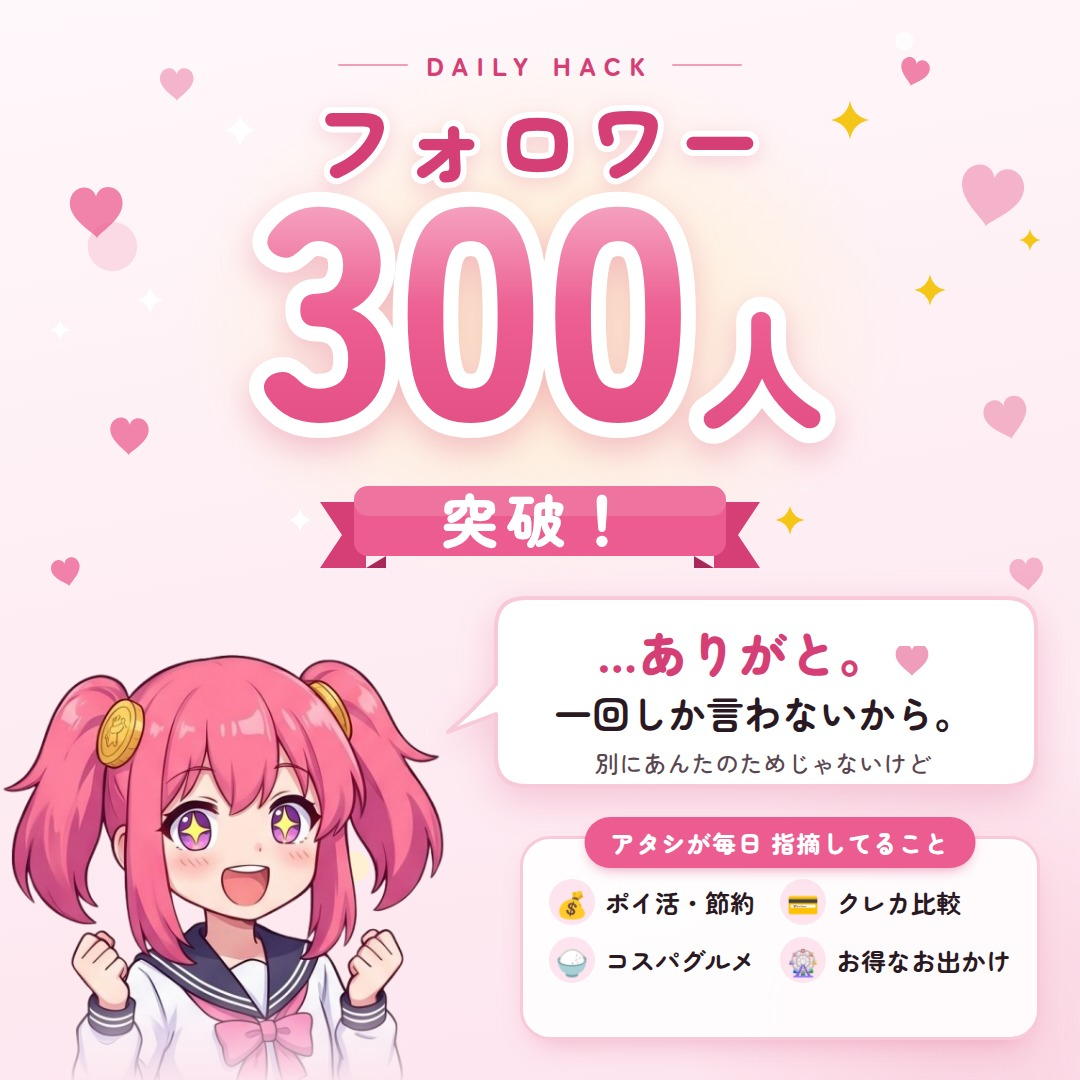
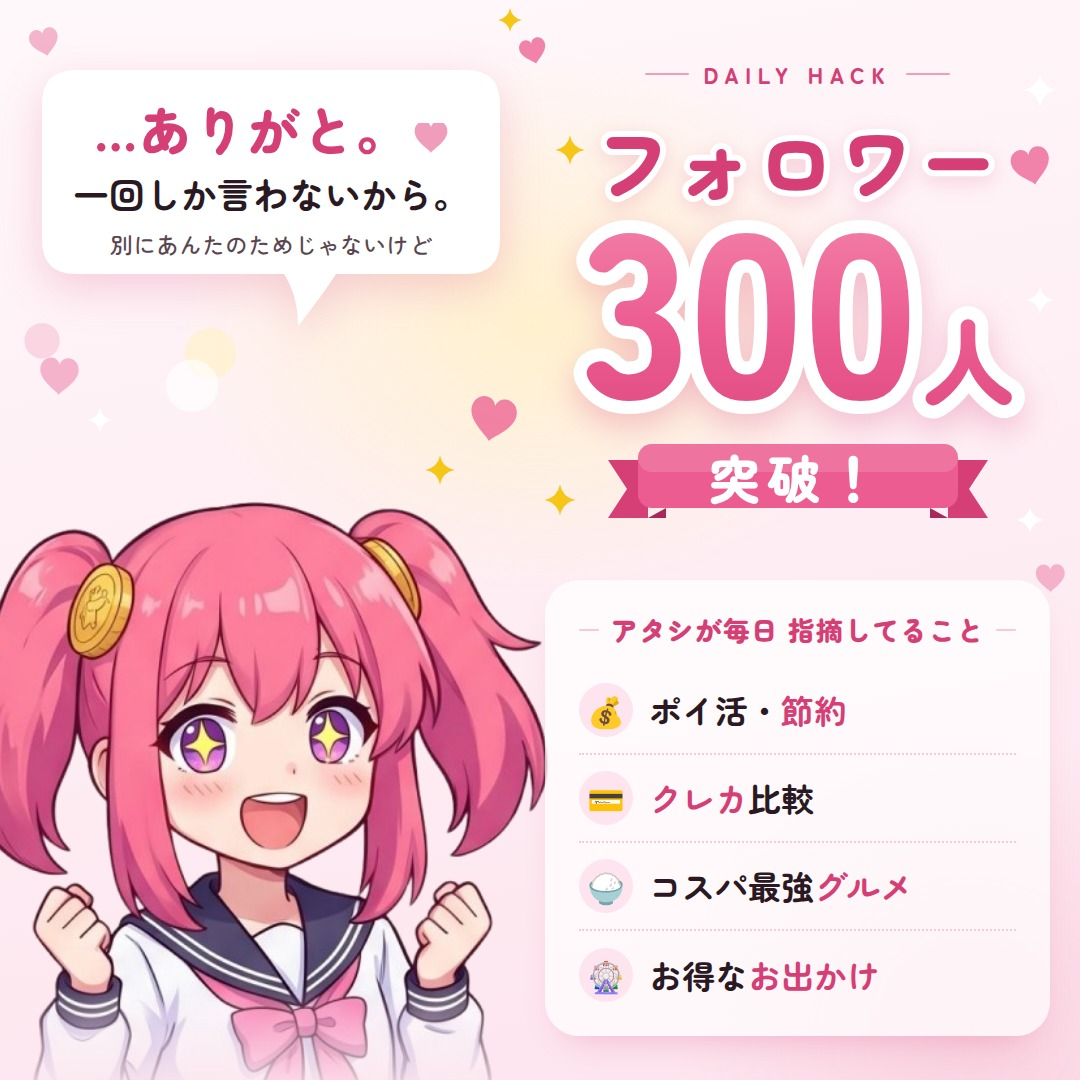
feat: 300 フォロワーの画像 3 版目（指定の参考 4 本の構図）・レビューページで対応済みの印を画像から消す
Claude-Session: https://claude.ai/code/session_01H2JQqdMCeKNiMVUTrAyX2t

diff --git a/ops/data/x-cards/follower-300.card.html b/ops/data/x-cards/follower-300.card.html
@@ -1,7 +1,7 @@
-<!-- フォロワー 300 人のお礼画像（2026-10-03・2 版目）の元。gen-x-cards.mjs の cover/photo に当てはまらないので HTML で組んだ。
+<!-- フォロワー 300 人のお礼画像（2026-10-03・3 版目）の元。gen-x-cards.mjs の cover/photo に当てはまらないので HTML で組んだ。
      作り直すとき: この HTML と ZenMaru-{500,700,900}.woff2 / ZenMaru-latin-900.woff2（@fontsource/zen-maru-gothic）と public/images/expr-04-cheer.png を同じ階層に置き、
      playwright で 1080x1080 を jpeg 92 で撮る → public/images/follower-300/x/1-card.jpg。素材はキャラと自作の図だけなので出所の行は要らない。
-     2 版目の方針: 参考 28 枚（x204）のうち調和の取れたもの（淡いピンクで統一・白縁のふっくらした数字・黒い線なし・メッセージは白い吹き出しとリボン）に寄せた -->
+     3 版目の構図: 利用者が指定した参考 4 本（x205）に共通する「キャラを片側に大きく・反対側に 数字 → 突破 → 普段の発信内容」。配色は x204 の調和の取れたもの（淡いピンク・白縁・黒線なし） -->
 <!doctype html><html lang="ja"><head><meta charset="utf-8">
 <style>
 @font-face{font-family:Z;src:url(ZenMaru-500.woff2);font-weight:500}
@@ -18,70 +18,69 @@ body{font-family:Z,sans-serif;color:var(--ink);overflow:hidden;position:relative
   linear-gradient(170deg,#FFF8FA 0%,#FDE4EE 100%)}
 .deco{position:absolute;pointer-events:none}
 .bokeh{border-radius:50%;filter:blur(2px)}
-.top{position:absolute;top:46px;left:0;right:0;display:flex;justify-content:center;align-items:center;gap:18px;color:var(--p600);font-weight:900;font-size:26px;letter-spacing:.32em}
-.top i{display:block;width:70px;height:2px;background:var(--p300);border-radius:2px}
-.lead{position:absolute;top:76px;left:0;right:0;text-align:center;font-weight:900;font-size:86px;color:var(--p600);letter-spacing:.06em;
- -webkit-text-stroke:12px #fff;paint-order:stroke fill;filter:drop-shadow(0 6px 10px rgba(214,62,118,.18))}
-.num{position:absolute;top:124px;left:0;right:0;height:330px;text-align:center;font-weight:900;line-height:330px;white-space:nowrap}
+.top{position:absolute;top:58px;left:545px;right:30px;display:flex;justify-content:center;align-items:center;gap:14px;color:var(--p600);font-weight:900;font-size:22px;letter-spacing:.3em}
+.top i{display:block;width:44px;height:2px;background:var(--p300);border-radius:2px}
+.col{position:absolute;left:545px;right:30px;text-align:center}
+.lead{top:104px;font-weight:900;font-size:78px;color:var(--p600);letter-spacing:.04em;-webkit-text-stroke:12px #fff;paint-order:stroke fill;filter:drop-shadow(0 6px 10px rgba(214,62,118,.18))}
+.num{top:178px;height:240px;font-weight:900;line-height:240px;white-space:nowrap}
 .num span{position:absolute;left:0;right:0}
-.num .bk{color:#fff;-webkit-text-stroke:30px #fff;filter:drop-shadow(0 12px 16px rgba(214,62,118,.28))}
+.num .bk{color:#fff;-webkit-text-stroke:26px #fff;filter:drop-shadow(0 12px 16px rgba(214,62,118,.28))}
 .num .fr{background:linear-gradient(180deg,#F58AB0 0%,#EC5C90 45%,#D63E76 100%);-webkit-background-clip:text;background-clip:text;color:transparent}
-.num b{font-size:300px;letter-spacing:-.01em;font-weight:900}
-.num em{font-style:normal;font-size:130px;font-weight:900;margin-left:6px}
-.num .hl{position:absolute;left:0;right:0;color:transparent;background:linear-gradient(180deg,rgba(255,255,255,.55),rgba(255,255,255,0) 40%);-webkit-background-clip:text;background-clip:text}
-.ribbon{position:absolute;top:478px;left:50%;transform:translateX(-50%);width:440px;height:96px}
-.ribbon .t{position:absolute;inset:0;display:flex;align-items:center;justify-content:center;color:#fff;font-weight:900;font-size:58px;letter-spacing:.14em;padding-bottom:6px}
-.mascot{position:absolute;left:-6px;bottom:-10px;width:470px;
- -webkit-mask-image:linear-gradient(to bottom,#000 80%,transparent 99%)}
-.bubble{position:absolute;left:440px;top:592px;width:600px;height:200px}
-.bubble .tx{position:absolute;left:70px;right:24px;top:30px;text-align:center}
-.bubble .a{font-weight:900;font-size:48px;color:var(--p600);letter-spacing:.04em;line-height:1.25}
-.bubble .b{font-weight:700;font-size:38px;color:var(--ink);line-height:1.4;margin-top:4px}
-.bubble .c{font-weight:500;font-size:24px;color:var(--ink2);margin-top:6px}
-.card{position:absolute;left:520px;right:40px;top:836px;bottom:40px;background:rgba(255,255,255,.88);border:3px solid var(--p200);border-radius:30px;
- box-shadow:0 14px 30px -14px rgba(214,62,118,.35);padding:40px 26px 18px}
-.card .h{position:absolute;top:-22px;left:50%;transform:translateX(-50%);white-space:nowrap;background:var(--p500);color:#fff;font-weight:900;font-size:24px;letter-spacing:.06em;padding:8px 26px;border-radius:999px;box-shadow:0 6px 14px -6px rgba(214,62,118,.6)}
-.card ul{list-style:none;display:grid;grid-template-columns:1fr 1fr;gap:12px 14px}
-.card li{display:flex;align-items:center;gap:10px;font-weight:700;font-size:25px;color:var(--ink);white-space:nowrap}
-.card li span{display:flex;align-items:center;justify-content:center;width:46px;height:46px;border-radius:50%;background:var(--p100);font-size:26px;flex:none}
+.num b{font-size:232px;letter-spacing:-.01em;font-weight:900}
+.num em{font-style:normal;font-size:96px;font-weight:900;margin-left:4px}
+.ribbon{position:absolute;top:438px;left:calc(545px + (505px - 380px)/2);width:380px;height:86px}
+.ribbon .t{position:absolute;inset:0;display:flex;align-items:center;justify-content:center;color:#fff;font-weight:900;font-size:52px;letter-spacing:.14em;top:-9px}
+.mascot{position:absolute;left:-74px;bottom:-24px;width:650px;
+ -webkit-mask-image:linear-gradient(to bottom,#000 82%,transparent 99%)}
+.bubble{position:absolute;left:36px;top:64px;width:470px;height:250px}
+.bubble .tx{position:absolute;left:24px;right:24px;top:34px;text-align:center}
+.bubble .a{font-weight:900;font-size:52px;color:var(--p600);letter-spacing:.04em;line-height:1.2}
+.bubble .b{font-weight:700;font-size:36px;color:var(--ink);line-height:1.4;margin-top:8px}
+.bubble .c{font-weight:500;font-size:23px;color:var(--ink2);margin-top:8px}
+.sum{top:580px;bottom:44px;background:rgba(255,255,255,.72);border-radius:34px;box-shadow:0 18px 36px -20px rgba(214,62,118,.35);padding:30px 34px 20px;text-align:left}
+.sum .h{display:flex;align-items:center;gap:12px;justify-content:center;color:var(--p600);font-weight:900;font-size:27px;letter-spacing:.04em;margin-bottom:18px}
+.sum .h i{flex:1;height:2px;background:var(--p200);border-radius:2px}
+.sum ul{list-style:none}
+.sum li{display:flex;align-items:center;gap:16px;font-weight:700;font-size:33px;color:var(--ink);height:88px;border-bottom:2px dotted var(--p200)}
+.sum li:last-child{border-bottom:none}
+.sum li span{display:flex;align-items:center;justify-content:center;width:54px;height:54px;border-radius:50%;background:var(--p100);font-size:30px;flex:none}
+.sum li em{font-style:normal;color:var(--p600)}
 </style></head><body>
 <svg class="deco" width="1080" height="1080" style="left:0;top:0" id="bg"></svg>
 <div class="top"><i></i>DAILY HACK<i></i></div>
-<div class="lead">フォロワー</div>
-<div class="num">
- <span class="bk"><b>300</b><em>人</em></span>
- <span class="fr"><b>300</b><em>人</em></span>
- <span class="hl"><b>300</b><em>人</em></span>
-</div>
-<div class="ribbon">
- <svg width="440" height="96" viewBox="0 0 440 96">
-  <path d="M0 24 L46 24 L46 90 L0 90 L22 57 Z" fill="#D63E76"/>
-  <path d="M440 24 L394 24 L394 90 L440 90 L418 57 Z" fill="#D63E76"/>
-  <path d="M46 90 L66 78 L66 90 Z M394 90 L374 78 L374 90 Z" fill="#A82959"/>
-  <rect x="34" y="8" width="372" height="70" rx="14" fill="#EC5C90"/>
-  <rect x="34" y="8" width="372" height="30" rx="14" fill="#fff" opacity=".14"/>
- </svg>
- <div class="t" style="top:-10px">突破！</div>
-</div>
 <img class="mascot" src="expr-04-cheer.png">
 <div class="bubble">
- <svg width="600" height="200" viewBox="0 0 600 200" style="overflow:visible;filter:drop-shadow(0 12px 18px rgba(214,62,118,.22))">
-  <path d="M86 6 H566 Q596 6 596 36 V164 Q596 194 566 194 H86 Q56 194 56 164 V122 Q40 128 8 140 Q36 116 56 92 V36 Q56 6 86 6 Z"
-        fill="#fff" stroke="#F8C9D9" stroke-width="4" stroke-linejoin="round"/>
+ <svg width="470" height="250" viewBox="0 0 470 250" style="overflow:visible;filter:drop-shadow(0 14px 22px rgba(214,62,118,.22))">
+  <path d="M40 6 H430 Q464 6 464 40 V176 Q464 210 430 210 H300 Q286 232 262 262 Q262 232 248 210 H40 Q6 210 6 176 V40 Q6 6 40 6 Z" fill="#fff"/>
  </svg>
  <div class="tx">
-  <div class="a">…ありがと。<svg width="34" height="30" viewBox="0 0 24 22" style="vertical-align:middle;margin-left:6px"><path d="M0 6 C0 -2 10 -4 12 3 C14 -4 24 -2 24 6 C24 14 12 20 12 22 C12 20 0 14 0 6 Z" fill="#F09DBB"/></svg></div>
+  <div class="a">…ありがと。<svg width="34" height="30" viewBox="0 0 24 22" style="vertical-align:middle;margin-left:4px"><path d="M0 6 C0 -2 10 -4 12 3 C14 -4 24 -2 24 6 C24 14 12 20 12 22 C12 20 0 14 0 6 Z" fill="#F09DBB"/></svg></div>
   <div class="b">一回しか言わないから。</div>
   <div class="c">別にあんたのためじゃないけど</div>
  </div>
 </div>
-<div class="card">
- <div class="h">アタシが毎日 指摘してること</div>
+<div class="col lead">フォロワー</div>
+<div class="col num">
+ <span class="bk"><b>300</b><em>人</em></span>
+ <span class="fr"><b>300</b><em>人</em></span>
+</div>
+<div class="ribbon">
+ <svg width="380" height="86" viewBox="0 0 380 86">
+  <path d="M0 22 L40 22 L40 80 L0 80 L19 51 Z" fill="#D63E76"/>
+  <path d="M380 22 L340 22 L340 80 L380 80 L361 51 Z" fill="#D63E76"/>
+  <path d="M40 80 L58 70 L58 80 Z M340 80 L322 70 L322 80 Z" fill="#A82959"/>
+  <rect x="30" y="6" width="320" height="64" rx="14" fill="#EC5C90"/>
+  <rect x="30" y="6" width="320" height="28" rx="14" fill="#fff" opacity=".14"/>
+ </svg>
+ <div class="t">突破！</div>
+</div>
+<div class="col sum">
+ <div class="h"><i></i>アタシが毎日 指摘してること<i></i></div>
  <ul>
-  <li><span>💰</span>ポイ活・節約</li>
-  <li><span>💳</span>クレカ比較</li>
-  <li><span>🍚</span>コスパグルメ</li>
-  <li><span>🎡</span>お得なお出かけ</li>
+  <li><span>💰</span><p>ポイ活・<em>節約</em></p></li>
+  <li><span>💳</span><p><em>クレカ</em>比較</p></li>
+  <li><span>🍚</span><p>コスパ最強<em>グルメ</em></p></li>
+  <li><span>🎡</span><p>お得な<em>お出かけ</em></p></li>
  </ul>
 </div>
 <script>
@@ -89,13 +88,13 @@ const s=document.getElementById('bg');let k=11;const r=()=>{k=(k*9301+49297)%233
 const ns='http://www.w3.org/2000/svg';
 const add=(t,a)=>{const e=document.createElementNS(ns,t);for(const x in a)e.setAttribute(x,a[x]);s.appendChild(e);return e};
 // やわらかい玉ボケ（文字の帯は避ける）
-for(let i=0;i<22;i++){const x=r()*1080,y=r()*1080,R=8+r()*22;if(y>80&&y<560&&x>140&&x<940)continue;if(x>420&&y>570)continue;
+for(let i=0;i<22;i++){const x=r()*1080,y=r()*1080,R=8+r()*22;if(x>520)continue;if(y<330)continue;if(x>40&&y>440)continue;
  add('circle',{cx:x,cy:y,r:R,fill:['#FFFFFF','#F8C9D9','#FFF1C8'][i%3],opacity:.55+r()*.3});}
 // ハート
 const heart=(x,y,z,c,o)=>add('path',{d:'M0 6 C0 -2 10 -4 12 3 C14 -4 24 -2 24 6 C24 14 12 20 12 22 C12 20 0 14 0 6 Z',fill:c,opacity:o,transform:`translate(${x},${y}) scale(${z}) rotate(${-15+r()*30} 12 10)`});
-[[70,190,2.2],[960,170,2.6],[110,420,1.6],[985,400,1.8],[52,560,1.2],[1010,560,1.4],[900,60,1.2],[160,70,1.4]].forEach(([x,y,z],i)=>heart(x,y,z,i%2?'#F09DBB':'#EC5C90',.75));
+[[1012,150,1.6],[1036,566,1.2],[470,400,1.9],[40,360,1.6],[520,40,1.1],[30,30,1.2]].forEach(([x,y,z],i)=>heart(x,y,z,i%2?'#F09DBB':'#EC5C90',.75));
 // きらきら
 const star=(x,y,z,c)=>add('path',{d:'M0 -12 Q2 -2 12 0 Q2 2 0 12 Q-2 2 -12 0 Q-2 -2 0 -12 Z',fill:c,transform:`translate(${x},${y}) scale(${z})`});
-[[240,130,1.4],[850,120,1.6],[150,300,1.1],[930,290,1.3],[300,520,1],[790,520,1.2],[60,330,.9],[1030,240,.9]].forEach(([x,y,z],i)=>star(x,y,z,i%2?'#F5C518':'#FFFFFF'));
+[[1040,90,1.4],[570,150,1.2],[1040,300,1.1],[560,500,1.3],[1030,520,1.1],[440,470,1.2],[100,420,1],[510,20,1]].forEach(([x,y,z],i)=>star(x,y,z,i%2?'#F5C518':'#FFFFFF'));
 </script>
 </body></html>

diff --git a/scripts/image-review/page.html b/scripts/image-review/page.html
@@ -885,6 +885,9 @@
     const mine = forTarget(target);
     slot.pins.replaceChildren();
     mine.forEach((r, i) => {
+      // **対応済みの印は画像に出さない**（2026-10-03 に指示）。直した後も ① ② が
+      // 画像に残って、見返すときに邪魔になる。コメント自体は下の一覧に残る（番号も同じ）
+      if (r.done) return;
       const b = document.createElement("button");
       b.type = "button"; b.className = "pin";
       b.dataset.done = r.done ? "1" : "0";

diff --git a/.claude/skills/x-post-images/SKILL.md b/.claude/skills/x-post-images/SKILL.md
@@ -294,6 +294,7 @@ cat public/images/<slug>/photos/_manifest.json
 | 2026-10-03 | **全体的に文字と各コンポーネントが被っていてデザインが最低。各コンポーネントに余白を持たせる／枠線などの線が濃すぎてイラストとマッチしていない。フォロワー突破の投稿をもっと幅広く分析して、デザインの調和が取れているものを活用して** | 要素どうしを**重ねない・接しない**。**濃い色の太い枠線（6px の黒）を使わない**——キャラの線画は細くやわらかいので、枠は薄い色・細め・影で浮かせる。**参考は 4 本では足りない。** `x204` で画像を最大 28 枚 集めてから組む |
 | 2026-10-03 | **具体的な数字とかユーザーは求めてないから、以降もこの機械的な数字の報告は必要ない。それよりも普段どんな投稿をしているかを簡単にサマリーしたコンポーネントを右下に** | 「5/15 19人 → 10/3 304人」の箱を外した。**画像に経過の数字を並べない。** 代わりに**このアカウントが普段 何を投稿しているか**（固定ポストの 4 項目：ポイ活・クレカ比較・コスパグルメ・お得なお出かけ）を置く |
 | 2026-10-03 | **ハートフルでこのアカウントならではのコメントなのに、コンポーネントが目立たなすぎ。矢印も雑で、中でバランスが取れていない。機械的に AI が作ったような、クオリティが低いものになっている** | 吹き出しは**画像の主役の 1 つ**として扱う。しっぽは三角 2 枚の重ね（ずれて見える）をやめ、**本体と一体の形**で描く。文字の大きさ・行間・余白を吹き出しの中で揃える |
+| 2026-10-03 | **参考にして欲しい画像の構図の投稿をいくつか添付するね**（節目の投稿 4 本） | `x205` で読んだ 4 本に共通していた構図を既定にした：**キャラを片側に大きく（画面の半分）、反対側に「見出し → 大きな数字 → 突破 → 普段の発信内容」を上から順に。** 枠で囲んだ箱を並べない。発信内容は 1 本目のように**短い行の箇条**で置く。セリフはキャラの頭の上に、本体と一体のしっぽを付けた白い吹き出しで |
 <!-- 追記はこの表の下に。日付・指摘・反映 の 3 列を必ず埋める -->
 
 ## 7. 関連

diff --git a/docs/image-review-page.md b/docs/image-review-page.md
@@ -34,6 +34,8 @@
 2. その位置にピンが立ち、入力欄が開く
 3. 書いて「コメントを置く」→ **自動で保存される**（送信操作は無い）
 4. 直ったものは「対応済み」で消し込む。間違えたものは「削除」
+   - **対応済みにした印（① ② …）は画像から消える**（2026-10-03 に指示。見返すときに邪魔になるため）。
+     コメントは下の一覧に番号つきで残り、「戻す」を押すと印も戻る
 
 ピンは画像ごとに 1 から番号が振られ、下のコメント一覧と対応する。
 **未対応の件数が上部に常に出る。**
